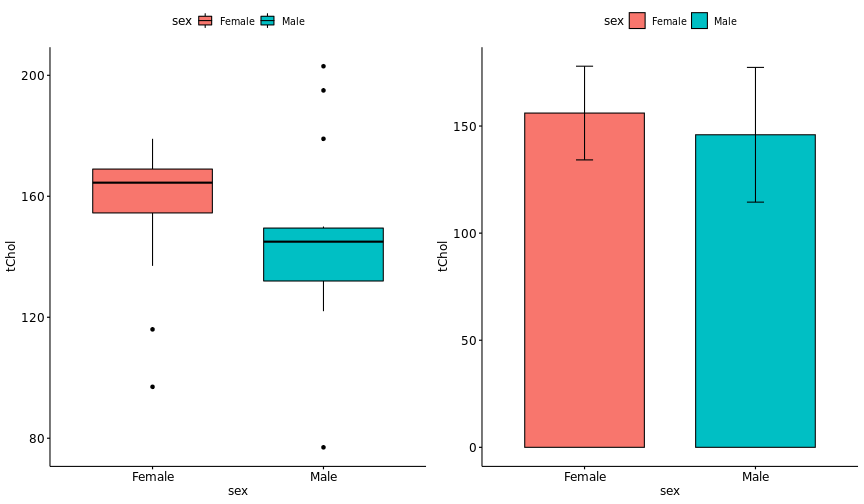
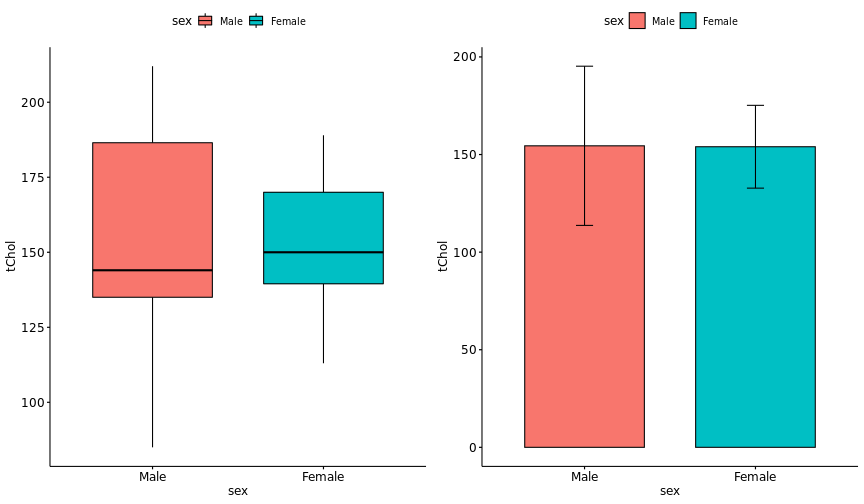
16:9

diff --git a/docs/statreview/index.html b/docs/statreview/index.html
@@ -79,11 +79,16 @@ class: center, middle
 ---
 # 맞춤형 통계웹
 
-![](https://jinseob2kim.github.io/lecture-general/korea-preventive/ss.png)
+&lt;center&gt;
+&lt;img src="https://jinseob2kim.github.io/lecture-general/korea-preventive/ss.png" width=70%&gt;&lt;/a&gt;
+&lt;/center&gt;
+
 ---
 # [공개 통계웹](http://app.zarathu.com) 
 
-![](https://blog.zarathu.com/posts/2018-11-24-basic-biostatistics/app.gif)
+&lt;center&gt;
+&lt;img src="openstat.jpg" width=70%&gt;&lt;/a&gt;
+&lt;/center&gt;
 
 
 ---
@@ -127,7 +132,7 @@ class: center, middle
 SCI 논문 200건 지원
 ]
 &lt;center&gt;
-&lt;img src="https://jinseob2kim.github.io/lecture-general/cdmkdh/paper.jpg" width=80%&gt;&lt;/a&gt;
+&lt;img src="https://jinseob2kim.github.io/lecture-general/cdmkdh/paper.jpg" width=50%&gt;&lt;/a&gt;
 &lt;/center&gt;
 
 
@@ -167,8 +172,8 @@ https://www.evanmiller.org/ab-testing/t-test.html 에서 바로 가능.
 
 ---
 
-<div id="htmlwidget-cacf2c333836188ef8b6" style="width:100%;height:auto;" class="datatables html-widget"></div>
-<script type="application/json" data-for="htmlwidget-cacf2c333836188ef8b6">{"x":{"filter":"none","vertical":false,"caption":"<caption>data.t: sex and total cholesterol<\/caption>","data":[["person 1","person 2","person 3","person 4","person 5","person 6","person 7","person 8","person 9","person 10","person 11","person 12","person 13","person 14","person 15","person 16","person 17","person 18","person 19","person 20","person 21","person 22","person 23","person 24","person 25","person 26","person 27","person 28","person 29","person 30"],["Female","Male","Female","Female","Female","Female","Male","Female","Female","Female","Male","Male","Female","Female","Female","Female","Female","Male","Female","Male","Male","Male","Female","Female","Male","Male","Male","Male","Male","Male"],[137,122,170,160,167,179,148,97,168,170,148,142,116,153,162,169,157,77,155,179,203,132,168,169,129,195,150,138,148,132]],"container":"<table class=\"display\">\n  <thead>\n    <tr>\n      <th> <\/th>\n      <th>sex<\/th>\n      <th>tChol<\/th>\n    <\/tr>\n  <\/thead>\n<\/table>","options":{"columnDefs":[{"className":"dt-right","targets":2},{"orderable":false,"targets":0}],"order":[],"autoWidth":false,"orderClasses":false}},"evals":[],"jsHooks":[]}</script>
+<div id="htmlwidget-cc7ec895c19de0c173eb" style="width:100%;height:auto;" class="datatables html-widget"></div>
+<script type="application/json" data-for="htmlwidget-cc7ec895c19de0c173eb">{"x":{"filter":"none","vertical":false,"caption":"<caption>data.t: sex and total cholesterol<\/caption>","data":[["person 1","person 2","person 3","person 4","person 5","person 6","person 7","person 8","person 9","person 10","person 11","person 12","person 13","person 14","person 15","person 16","person 17","person 18","person 19","person 20","person 21","person 22","person 23","person 24","person 25","person 26","person 27","person 28","person 29","person 30"],["Male","Female","Female","Male","Female","Male","Male","Female","Female","Male","Male","Male","Male","Male","Female","Female","Female","Female","Male","Female","Male","Male","Male","Female","Male","Female","Male","Female","Female","Female"],[144,136,147,194,180,207,209,172,175,161,212,141,134,110,189,149,164,143,179,168,85,142,136,131,170,131,93,113,162,150]],"container":"<table class=\"display\">\n  <thead>\n    <tr>\n      <th> <\/th>\n      <th>sex<\/th>\n      <th>tChol<\/th>\n    <\/tr>\n  <\/thead>\n<\/table>","options":{"columnDefs":[{"className":"dt-right","targets":2},{"orderable":false,"targets":0}],"order":[],"autoWidth":false,"orderClasses":false}},"evals":[],"jsHooks":[]}</script>
 
 ---
 
@@ -183,17 +188,17 @@ nev.ttest
 ## 	Welch Two Sample t-test
 ## 
 ## data:  tChol by sex
-## t = 1.0105, df = 22.787, p-value = 0.3229
+## t = -0.039321, df = 21.06, p-value = 0.969
 ## alternative hypothesis: true difference in means between group Female and group Male is not equal to 0
 ## 95 percent confidence interval:
-##  -10.62265  30.89050
+##  -25.14378  24.21045
 ## sample estimates:
 ## mean in group Female   mean in group Male 
-##             156.0625             145.9286
+##             154.0000             154.4667
 ```
 
 .large[
-여자의 평균 콜레스테롤 값은 156.1, 남자는 145.9 이고 `\(p\)`-value는 0.323  
+여자의 평균 콜레스테롤 값은 154, 남자는 154.5 이고 `\(p\)`-value는 0.969  
 
 ]
 
@@ -213,17 +218,17 @@ ev.ttest
 ## 	Two Sample t-test
 ## 
 ## data:  tChol by sex
-## t = 1.0351, df = 28, p-value = 0.3095
+## t = -0.039321, df = 28, p-value = 0.9689
 ## alternative hypothesis: true difference in means between group Female and group Male is not equal to 0
 ## 95 percent confidence interval:
-##  -9.920007 30.187864
+##  -24.77772  23.84439
 ## sample estimates:
 ## mean in group Female   mean in group Male 
-##             156.0625             145.9286
+##             154.0000             154.4667
 ```
 
 
-앞서는 **Welch t-test** 였는데 이름이 바뀐 것을 확인할 수 있고 `\(p\)`-value도 0.309로 다름. 
+앞서는 **Welch t-test** 였는데 이름이 바뀐 것을 확인할 수 있고 `\(p\)`-value도 0.969로 다름. 
 - 특별한 경우가 아니고서야 위험한 등분산가정을 할 필요가 없음.   
 
 - **R** 에서 디폴트도 `F` 임.
@@ -279,7 +284,7 @@ res.wilcox
 ## 	Wilcoxon rank sum test with continuity correction
 ## 
 ## data:  tChol by sex
-## W = 150.5, p-value = 0.1138
+## W = 113.5, p-value = 0.9835
 ## alternative hypothesis: true location shift is not equal to 0
 ```
 
@@ -309,8 +314,8 @@ res.wilcox
 
 ---
 
-<div id="htmlwidget-c0c220bf50ed9f320dd0" style="width:100%;height:auto;" class="datatables html-widget"></div>
-<script type="application/json" data-for="htmlwidget-c0c220bf50ed9f320dd0">{"x":{"filter":"none","vertical":false,"caption":"<caption>data.t: group and total cholesterol<\/caption>","data":[["person 1","person 2","person 3","person 4","person 5","person 6","person 7","person 8","person 9","person 10","person 11","person 12","person 13","person 14","person 15","person 16","person 17","person 18","person 19","person 20","person 21","person 22","person 23","person 24","person 25","person 26","person 27","person 28","person 29","person 30"],["C","C","C","B","C","B","B","B","C","A","B","B","A","B","C","A","C","C","A","A","A","A","C","B","C","B","A","B","C","B"],[148,126,128,144,140,117,147,182,146,115,125,171,140,111,132,146,177,145,160,53,127,159,113,163,174,145,187,122,162,162]],"container":"<table class=\"display\">\n  <thead>\n    <tr>\n      <th> <\/th>\n      <th>group<\/th>\n      <th>tChol<\/th>\n    <\/tr>\n  <\/thead>\n<\/table>","options":{"columnDefs":[{"className":"dt-right","targets":2},{"orderable":false,"targets":0}],"order":[],"autoWidth":false,"orderClasses":false}},"evals":[],"jsHooks":[]}</script>
+<div id="htmlwidget-c99940647d67e931312d" style="width:100%;height:auto;" class="datatables html-widget"></div>
+<script type="application/json" data-for="htmlwidget-c99940647d67e931312d">{"x":{"filter":"none","vertical":false,"caption":"<caption>data.t: group and total cholesterol<\/caption>","data":[["person 1","person 2","person 3","person 4","person 5","person 6","person 7","person 8","person 9","person 10","person 11","person 12","person 13","person 14","person 15","person 16","person 17","person 18","person 19","person 20","person 21","person 22","person 23","person 24","person 25","person 26","person 27","person 28","person 29","person 30"],["C","C","C","B","C","B","B","B","C","A","B","B","A","B","C","A","C","C","A","A","A","A","C","B","C","B","A","B","C","B"],[148,126,128,144,140,117,147,182,146,115,125,171,140,111,132,146,177,145,160,53,127,159,113,163,174,145,187,122,162,162]],"container":"<table class=\"display\">\n  <thead>\n    <tr>\n      <th> <\/th>\n      <th>group<\/th>\n      <th>tChol<\/th>\n    <\/tr>\n  <\/thead>\n<\/table>","options":{"columnDefs":[{"className":"dt-right","targets":2},{"orderable":false,"targets":0}],"order":[],"autoWidth":false,"orderClasses":false}},"evals":[],"jsHooks":[]}</script>
 
 ---
 
@@ -407,8 +412,8 @@ class: center, middle
 
 ---
 
-<div id="htmlwidget-450019af8cb142d4080e" style="width:100%;height:auto;" class="datatables html-widget"></div>
-<script type="application/json" data-for="htmlwidget-450019af8cb142d4080e">{"x":{"filter":"none","vertical":false,"caption":"<caption>data.chi: HTN &amp; DM medication<\/caption>","data":[["person 1","person 2","person 3","person 4","person 5","person 6","person 7","person 8","person 9","person 10","person 11","person 12","person 13","person 14","person 15","person 16","person 17","person 18","person 19","person 20","person 21","person 22","person 23","person 24","person 25","person 26","person 27","person 28","person 29","person 30","person 31","person 32","person 33","person 34","person 35","person 36","person 37","person 38","person 39","person 40","person 41","person 42","person 43","person 44","person 45","person 46","person 47","person 48","person 49","person 50"],[1,0,0,0,1,1,0,0,0,0,0,0,0,1,1,0,1,0,0,0,1,0,0,0,0,1,1,0,0,1,0,1,0,0,0,1,1,0,0,1,1,1,1,1,0,1,1,1,0,1],[0,0,1,1,0,0,0,0,1,1,0,0,1,1,0,1,0,0,0,0,1,0,1,0,0,0,0,0,1,0,0,1,1,0,0,1,1,1,1,0,1,1,0,0,1,0,0,1,1,0]],"container":"<table class=\"display\">\n  <thead>\n    <tr>\n      <th> <\/th>\n      <th>HTN_medi<\/th>\n      <th>DM_medi<\/th>\n    <\/tr>\n  <\/thead>\n<\/table>","options":{"columnDefs":[{"className":"dt-right","targets":[1,2]},{"orderable":false,"targets":0}],"order":[],"autoWidth":false,"orderClasses":false}},"evals":[],"jsHooks":[]}</script>
+<div id="htmlwidget-df227a0455af7988d855" style="width:100%;height:auto;" class="datatables html-widget"></div>
+<script type="application/json" data-for="htmlwidget-df227a0455af7988d855">{"x":{"filter":"none","vertical":false,"caption":"<caption>data.chi: HTN &amp; DM medication<\/caption>","data":[["person 1","person 2","person 3","person 4","person 5","person 6","person 7","person 8","person 9","person 10","person 11","person 12","person 13","person 14","person 15","person 16","person 17","person 18","person 19","person 20","person 21","person 22","person 23","person 24","person 25","person 26","person 27","person 28","person 29","person 30","person 31","person 32","person 33","person 34","person 35","person 36","person 37","person 38","person 39","person 40","person 41","person 42","person 43","person 44","person 45","person 46","person 47","person 48","person 49","person 50"],[1,0,0,0,1,1,0,0,0,0,0,0,0,1,1,0,1,0,0,0,1,0,0,0,0,1,1,0,0,1,0,1,0,0,0,1,1,0,0,1,1,1,1,1,0,1,1,1,0,1],[0,0,1,1,0,0,0,0,1,1,0,0,1,1,0,1,0,0,0,0,1,0,1,0,0,0,0,0,1,0,0,1,1,0,0,1,1,1,1,0,1,1,0,0,1,0,0,1,1,0]],"container":"<table class=\"display\">\n  <thead>\n    <tr>\n      <th> <\/th>\n      <th>HTN_medi<\/th>\n      <th>DM_medi<\/th>\n    <\/tr>\n  <\/thead>\n<\/table>","options":{"columnDefs":[{"className":"dt-right","targets":[1,2]},{"orderable":false,"targets":0}],"order":[],"autoWidth":false,"orderClasses":false}},"evals":[],"jsHooks":[]}</script>
 
 
 ---
@@ -457,8 +462,8 @@ res.chi
 
 ---
 
-<div id="htmlwidget-fff365f41bb24fe0cc6a" style="width:100%;height:auto;" class="datatables html-widget"></div>
-<script type="application/json" data-for="htmlwidget-fff365f41bb24fe0cc6a">{"x":{"filter":"none","vertical":false,"caption":"<caption>data.fisher: HTN &amp; DM medication<\/caption>","data":[["person 1","person 2","person 3","person 4","person 5","person 6","person 7","person 8","person 9","person 10","person 11","person 12","person 13","person 14","person 15","person 16","person 17","person 18","person 19","person 20","person 21","person 22","person 23","person 24","person 25","person 26","person 27","person 28","person 29","person 30","person 31","person 32","person 33","person 34","person 35","person 36","person 37","person 38","person 39","person 40","person 41","person 42","person 43","person 44","person 45","person 46","person 47","person 48","person 49","person 50"],[1,0,0,0,1,1,0,0,0,0,0,0,0,0,1,0,0,0,0,0,1,0,0,0,0,1,0,0,0,1,0,0,0,0,0,1,0,0,0,0,0,1,0,0,0,0,1,0,0,1],[0,0,0,1,0,0,0,0,1,0,0,0,0,1,0,1,0,0,0,0,0,0,0,0,0,0,0,0,1,0,0,0,0,0,0,1,1,1,1,0,0,1,0,0,0,0,0,0,0,0]],"container":"<table class=\"display\">\n  <thead>\n    <tr>\n      <th> <\/th>\n      <th>HTN_medi<\/th>\n      <th>DM_medi<\/th>\n    <\/tr>\n  <\/thead>\n<\/table>","options":{"columnDefs":[{"className":"dt-right","targets":[1,2]},{"orderable":false,"targets":0}],"order":[],"autoWidth":false,"orderClasses":false}},"evals":[],"jsHooks":[]}</script>
+<div id="htmlwidget-e197233812ec9fcecd2a" style="width:100%;height:auto;" class="datatables html-widget"></div>
+<script type="application/json" data-for="htmlwidget-e197233812ec9fcecd2a">{"x":{"filter":"none","vertical":false,"caption":"<caption>data.fisher: HTN &amp; DM medication<\/caption>","data":[["person 1","person 2","person 3","person 4","person 5","person 6","person 7","person 8","person 9","person 10","person 11","person 12","person 13","person 14","person 15","person 16","person 17","person 18","person 19","person 20","person 21","person 22","person 23","person 24","person 25","person 26","person 27","person 28","person 29","person 30","person 31","person 32","person 33","person 34","person 35","person 36","person 37","person 38","person 39","person 40","person 41","person 42","person 43","person 44","person 45","person 46","person 47","person 48","person 49","person 50"],[1,0,0,0,1,1,0,0,0,0,0,0,0,0,1,0,0,0,0,0,1,0,0,0,0,1,0,0,0,1,0,0,0,0,0,1,0,0,0,0,0,1,0,0,0,0,1,0,0,1],[0,0,0,1,0,0,0,0,1,0,0,0,0,1,0,1,0,0,0,0,0,0,0,0,0,0,0,0,1,0,0,0,0,0,0,1,1,1,1,0,0,1,0,0,0,0,0,0,0,0]],"container":"<table class=\"display\">\n  <thead>\n    <tr>\n      <th> <\/th>\n      <th>HTN_medi<\/th>\n      <th>DM_medi<\/th>\n    <\/tr>\n  <\/thead>\n<\/table>","options":{"columnDefs":[{"className":"dt-right","targets":[1,2]},{"orderable":false,"targets":0}],"order":[],"autoWidth":false,"orderClasses":false}},"evals":[],"jsHooks":[]}</script>
 
 ---
 
@@ -560,8 +565,8 @@ class: center, middle
 
 
 ---
-<div id="htmlwidget-b02cabc5fc2f23ddd47a" style="width:100%;height:auto;" class="datatables html-widget"></div>
-<script type="application/json" data-for="htmlwidget-b02cabc5fc2f23ddd47a">{"x":{"filter":"none","vertical":false,"caption":"<caption>data.pt: systolic blood pressure measured by hand &amp; machine<\/caption>","data":[["person 1","person 2","person 3","person 4","person 5","person 6","person 7","person 8","person 9","person 10","person 11","person 12","person 13","person 14","person 15","person 16","person 17","person 18","person 19","person 20","person 21","person 22","person 23","person 24","person 25","person 26","person 27","person 28","person 29","person 30"],[128,128,120,119,124,130,127,131,127,120,119,131,129,129,125,129,126,132,123,111,125,125,119,112,129,126,125,128,125,128],[128,119,119,126,118,124,128,129,117,130,123,128,128,133,127,126,127,119,122,125,124,127,128,126,127,123,129,123,142,123]],"container":"<table class=\"display\">\n  <thead>\n    <tr>\n      <th> <\/th>\n      <th>SBP_hand<\/th>\n      <th>SBP_machine<\/th>\n    <\/tr>\n  <\/thead>\n<\/table>","options":{"columnDefs":[{"className":"dt-right","targets":[1,2]},{"orderable":false,"targets":0}],"order":[],"autoWidth":false,"orderClasses":false}},"evals":[],"jsHooks":[]}</script>
+<div id="htmlwidget-b9ff6a92120ca06e7db7" style="width:100%;height:auto;" class="datatables html-widget"></div>
+<script type="application/json" data-for="htmlwidget-b9ff6a92120ca06e7db7">{"x":{"filter":"none","vertical":false,"caption":"<caption>data.pt: systolic blood pressure measured by hand &amp; machine<\/caption>","data":[["person 1","person 2","person 3","person 4","person 5","person 6","person 7","person 8","person 9","person 10","person 11","person 12","person 13","person 14","person 15","person 16","person 17","person 18","person 19","person 20","person 21","person 22","person 23","person 24","person 25","person 26","person 27","person 28","person 29","person 30"],[128,128,120,119,124,130,127,131,127,120,119,131,129,129,125,129,126,132,123,111,125,125,119,112,129,126,125,128,125,128],[128,119,119,126,118,124,128,129,117,130,123,128,128,133,127,126,127,119,122,125,124,127,128,126,127,123,129,123,142,123]],"container":"<table class=\"display\">\n  <thead>\n    <tr>\n      <th> <\/th>\n      <th>SBP_hand<\/th>\n      <th>SBP_machine<\/th>\n    <\/tr>\n  <\/thead>\n<\/table>","options":{"columnDefs":[{"className":"dt-right","targets":[1,2]},{"orderable":false,"targets":0}],"order":[],"autoWidth":false,"orderClasses":false}},"evals":[],"jsHooks":[]}</script>
 
 
 ---
@@ -659,8 +664,8 @@ class: center, middle
 
 ---
 
-<div id="htmlwidget-f54a75099f4e2b120f24" style="width:100%;height:auto;" class="datatables html-widget"></div>
-<script type="application/json" data-for="htmlwidget-f54a75099f4e2b120f24">{"x":{"filter":"none","vertical":false,"caption":"<caption>data.mc: Abdominal pain - before &amp; after<\/caption>","data":[["person 1","person 2","person 3","person 4","person 5","person 6","person 7","person 8","person 9","person 10","person 11","person 12","person 13","person 14","person 15","person 16","person 17","person 18","person 19","person 20","person 21","person 22","person 23","person 24","person 25","person 26","person 27","person 28","person 29","person 30"],[0,1,0,0,0,1,0,0,0,0,1,1,0,1,0,1,1,0,0,0,1,1,1,0,1,1,0,1,0,1],[0,1,1,0,1,0,0,0,0,1,0,0,0,1,1,0,1,0,1,1,1,0,0,1,0,0,0,1,1,0]],"container":"<table class=\"display\">\n  <thead>\n    <tr>\n      <th> <\/th>\n      <th>Pain_before<\/th>\n      <th>Pain_after<\/th>\n    <\/tr>\n  <\/thead>\n<\/table>","options":{"columnDefs":[{"className":"dt-right","targets":[1,2]},{"orderable":false,"targets":0}],"order":[],"autoWidth":false,"orderClasses":false}},"evals":[],"jsHooks":[]}</script>
+<div id="htmlwidget-cf2938c795d1b78ee20e" style="width:100%;height:auto;" class="datatables html-widget"></div>
+<script type="application/json" data-for="htmlwidget-cf2938c795d1b78ee20e">{"x":{"filter":"none","vertical":false,"caption":"<caption>data.mc: Abdominal pain - before &amp; after<\/caption>","data":[["person 1","person 2","person 3","person 4","person 5","person 6","person 7","person 8","person 9","person 10","person 11","person 12","person 13","person 14","person 15","person 16","person 17","person 18","person 19","person 20","person 21","person 22","person 23","person 24","person 25","person 26","person 27","person 28","person 29","person 30"],[0,1,0,0,0,1,0,0,0,0,1,1,0,1,0,1,1,0,0,0,1,1,1,0,1,1,0,1,0,1],[0,1,1,0,1,0,0,0,0,1,0,0,0,1,1,0,1,0,1,1,1,0,0,1,0,0,0,1,1,0]],"container":"<table class=\"display\">\n  <thead>\n    <tr>\n      <th> <\/th>\n      <th>Pain_before<\/th>\n      <th>Pain_after<\/th>\n    <\/tr>\n  <\/thead>\n<\/table>","options":{"columnDefs":[{"className":"dt-right","targets":[1,2]},{"orderable":false,"targets":0}],"order":[],"autoWidth":false,"orderClasses":false}},"evals":[],"jsHooks":[]}</script>
 
 ---
 
@@ -780,7 +785,7 @@ nominalSymmetryTest(AndersonRainGarden)
 ]
 
 &lt;center&gt;
-&lt;img src="https://www.researchgate.net/profile/Anne-Dyrhol-Riise/publication/259766024/figure/tbl4/AS:392649367408643@1470626312604/Univariate-and-multivariate-analysis-of-factors-associated-with-a-positive-TST-5-mm.png" width=80%&gt;&lt;/a&gt;
+&lt;img src="https://www.researchgate.net/profile/Anne-Dyrhol-Riise/publication/259766024/figure/tbl4/AS:392649367408643@1470626312604/Univariate-and-multivariate-analysis-of-factors-associated-with-a-positive-TST-5-mm.png" width=65%&gt;&lt;/a&gt;
 &lt;/center&gt;
 
 ---
@@ -808,7 +813,7 @@ nominalSymmetryTest(AndersonRainGarden)
 
 &lt;center&gt;
 &lt;img src="https://www.researchgate.net/publication/332229730/figure/fig2/AS:744331304521728@1554473820106/Subgroup-analyses-of-the-primary-outcome-The-forest-plot-shows-that-the-difference-in.ppm
-" width=60%&gt;&lt;/a&gt;
+" width=40%&gt;&lt;/a&gt;
 &lt;/center&gt;
 
 
@@ -822,7 +827,7 @@ nominalSymmetryTest(AndersonRainGarden)
 - 비례위험가정 test까진 필요없음: 그림으로 확인
 
 &lt;center&gt;
-&lt;img src="https://i.stack.imgur.com/TzLk8.png" width=80%&gt;&lt;/a&gt;
+&lt;img src="https://i.stack.imgur.com/TzLk8.png" width=55%&gt;&lt;/a&gt;
 &lt;/center&gt;
 
 
@@ -832,7 +837,7 @@ nominalSymmetryTest(AndersonRainGarden)
 .large[
 시간 나눠 따로 분석]
 &lt;center&gt;
-&lt;img src="https://blog.zarathu.com/posts/2020-10-29-survivalpractice/survivalpractice_files/figure-html5/unnamed-chunk-6-1.png" width=80%&gt;&lt;/a&gt;
+&lt;img src="https://blog.zarathu.com/posts/2020-10-29-survivalpractice/survivalpractice_files/figure-html5/unnamed-chunk-6-1.png" width=50%&gt;&lt;/a&gt;
 &lt;/center&gt;
 
 ---
@@ -923,7 +928,7 @@ Propensity score 매칭 후 **stratified cox 필수 아님**
 **SAS** surveyreg surveylogistic, **R** svyglm svycox
 
 &lt;center&gt;
-&lt;img src="https://img1.daumcdn.net/thumb/R1280x0/?scode=mtistory2&amp;fname=https%3A%2F%2Fblog.kakaocdn.net%2Fdn%2FxpFlG%2FbtqAyxBZnBG%2FnSjUohAQ00nKktNcEqwEq0%2Fimg.png" width=50%&gt;&lt;/a&gt;
+&lt;img src="https://img1.daumcdn.net/thumb/R1280x0/?scode=mtistory2&amp;fname=https%3A%2F%2Fblog.kakaocdn.net%2Fdn%2FxpFlG%2FbtqAyxBZnBG%2FnSjUohAQ00nKktNcEqwEq0%2Fimg.png" width=40%&gt;&lt;/a&gt;
 &lt;/center&gt;
 
 
@@ -968,7 +973,7 @@ class: center, middle
 "highlightStyle": "github",
 "highlightLines": true,
 "countIncrementalSlides": false,
-"ratio": "4:3"
+"ratio": "16:9"
 });
 if (window.HTMLWidgets) slideshow.on('afterShowSlide', function (slide) {
   window.dispatchEvent(new Event('resize'));
